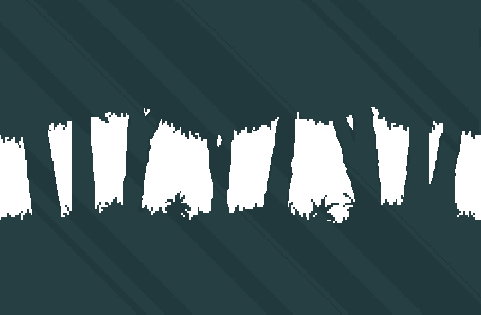
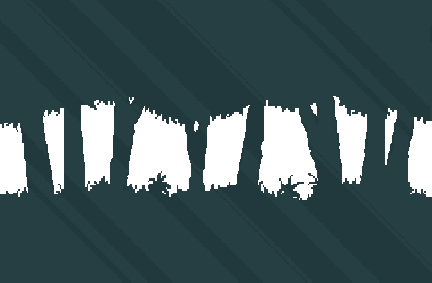
Demo bgs changes

diff --git a/Ludos.Engine.Demo/View/GameView.cs b/Ludos.Engine.Demo/View/GameView.cs
@@ -79,9 +79,9 @@
             _parallaxBackgrounds = new List<ScrollingTexture>
             {
                 new ScrollingTexture(content.Load<Texture2D>("Assets/Parallax/Jungle/bg1"), _camera, new Vector2(0, 0), offsetY: 0),
-                new ScrollingTexture(content.Load<Texture2D>("Assets/Parallax/Jungle/bg2"), _camera, new Vector2(0.25f, 0.25f), offsetY: 35),
-                new ScrollingTexture(content.Load<Texture2D>("Assets/Parallax/Jungle/bg3"), _camera, new Vector2(0.50f, 0.50f), offsetY: 50),
-                new ScrollingTexture(content.Load<Texture2D>("Assets/Parallax/Jungle/bg4"), _camera, new Vector2(0.75f, 0.75f), offsetY: 55),
+                new ScrollingTexture(content.Load<Texture2D>("Assets/Parallax/Jungle/bg2"), _camera, new Vector2(0.25f), offsetY: 0),
+                new ScrollingTexture(content.Load<Texture2D>("Assets/Parallax/Jungle/bg3"), _camera, new Vector2(0.50f), offsetY: 10),
+                new ScrollingTexture(content.Load<Texture2D>("Assets/Parallax/Jungle/bg4"), _camera, new Vector2(0.75f), offsetY: 20),
             };
         }
 

diff --git a/Ludos.Engine.Demo/LudosEngineDemo.cs b/Ludos.Engine.Demo/LudosEngineDemo.cs
@@ -29,8 +29,8 @@
 
             var tmxMapInfoList = new List<TMXMapInfo>()
             {
-                new TMXMapInfo { TmxFilePath = "Levels/Level1/Level1.tmx", ResourcePath = "Levels/Level1/TileImages", NonDefaultLayerNames = null, MovingPlatformSize = new Point(48, 16) },
-                new TMXMapInfo { TmxFilePath = "Levels/Level2/Level2.tmx", ResourcePath = "Levels/Level2/TileImages", NonDefaultLayerNames = null, MovingPlatformSize = new Point(48, 16) },
+                //new TMXMapInfo { TmxFilePath = "Levels/Level1/Level1.tmx", ResourcePath = "Levels/Level1/TileImages", NonDefaultLayerNames = null, MovingPlatformSize = new Point(48, 16) },
+                //new TMXMapInfo { TmxFilePath = "Levels/Level2/Level2.tmx", ResourcePath = "Levels/Level2/TileImages", NonDefaultLayerNames = null, MovingPlatformSize = new Point(48, 16) },
                 new TMXMapInfo { TmxFilePath = "Levels/Level3/Level3.tmx", ResourcePath = "Levels/Level3/TileImages", NonDefaultLayerNames = null, MovingPlatformSize = new Point(48, 16) },
             };
 
